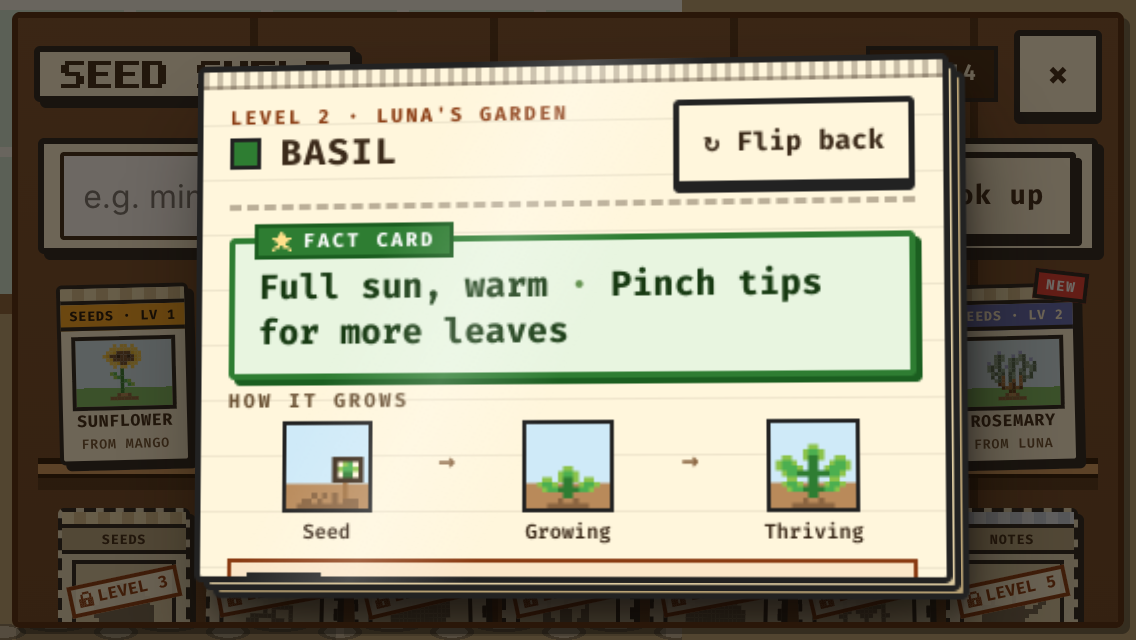
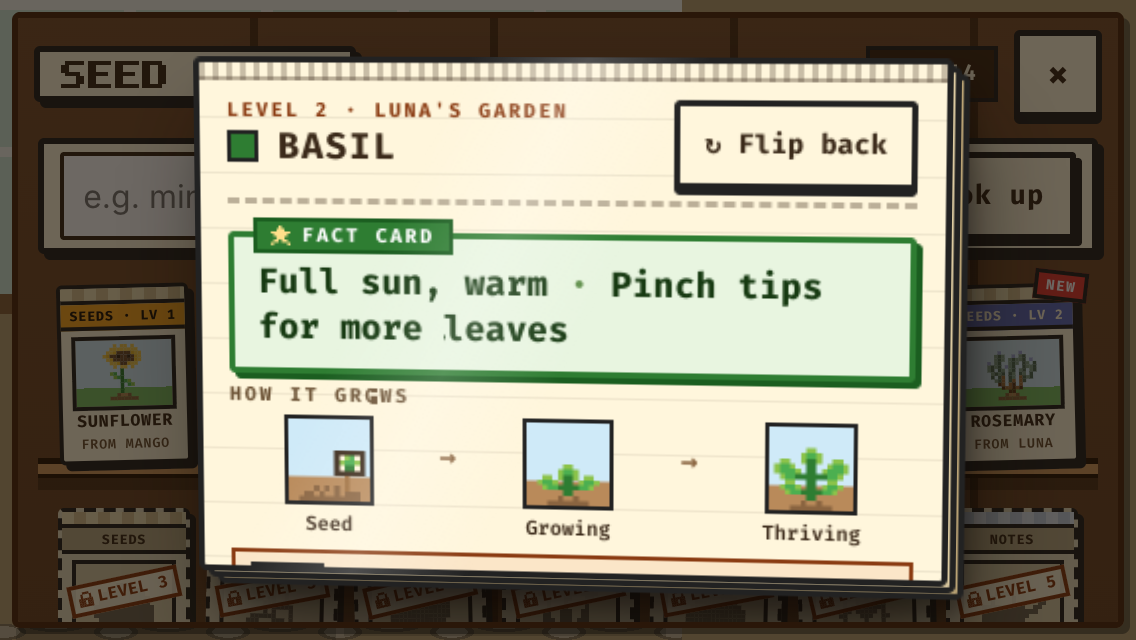
style(v2): the 3D seed packet leans its top toward the player

Changed region(s): [[0.154, 0.0625, 0.8627, 0.9375], [0.3697, 0.7188, 0.4005, 0.75]]

diff --git a/v2/css/almanac.css b/v2/css/almanac.css
@@ -203,7 +203,7 @@
 .pkt__tilt {
   position: relative; flex: 1 1 auto; min-height: 0; display: flex; flex-direction: column;
   transform-style: preserve-3d;
-  transform: rotateX(calc(6deg - var(--my) * 10deg)) rotateY(calc(-10deg + var(--mx) * 10deg));
+  transform: rotateX(calc(-8deg - var(--my) * 10deg)) rotateY(calc(-10deg + var(--mx) * 10deg));
   transition: transform 0.3s ease-out;
 }
 .pkt__rear, .pkt__sheen { position: absolute; inset: 0; pointer-events: none; border-radius: 4px; }
@@ -344,7 +344,7 @@
   .pk__new { top: -8px; right: -8px; padding: 2px 4px; }
   .pk__stamp { padding: 3px 5px; border-width: 2px; }
   .pkt { --t: 4px; width: min(380px, calc(100% - 24px)); max-height: calc(100% - 40px); }
-  .pkt__tilt { transform: rotateX(4deg) rotateY(-7deg); }
+  .pkt__tilt { transform: rotateX(-6deg) rotateY(-7deg); }
   .back { gap: 6px; padding: 18px 14px 10px; }
   .back::before { height: 9px; }
   .back__top { padding-bottom: 6px; }

diff --git a/sw.js b/sw.js
@@ -6,7 +6,7 @@
  * a second visit works with no connection at all. Camera models and the
  * optional live-AI proxy are never cached.
  */
-const VERSION = "dw-v26";
+const VERSION = "dw-v27";
 const PRECACHE = [
   "./",
   "./index.html",
